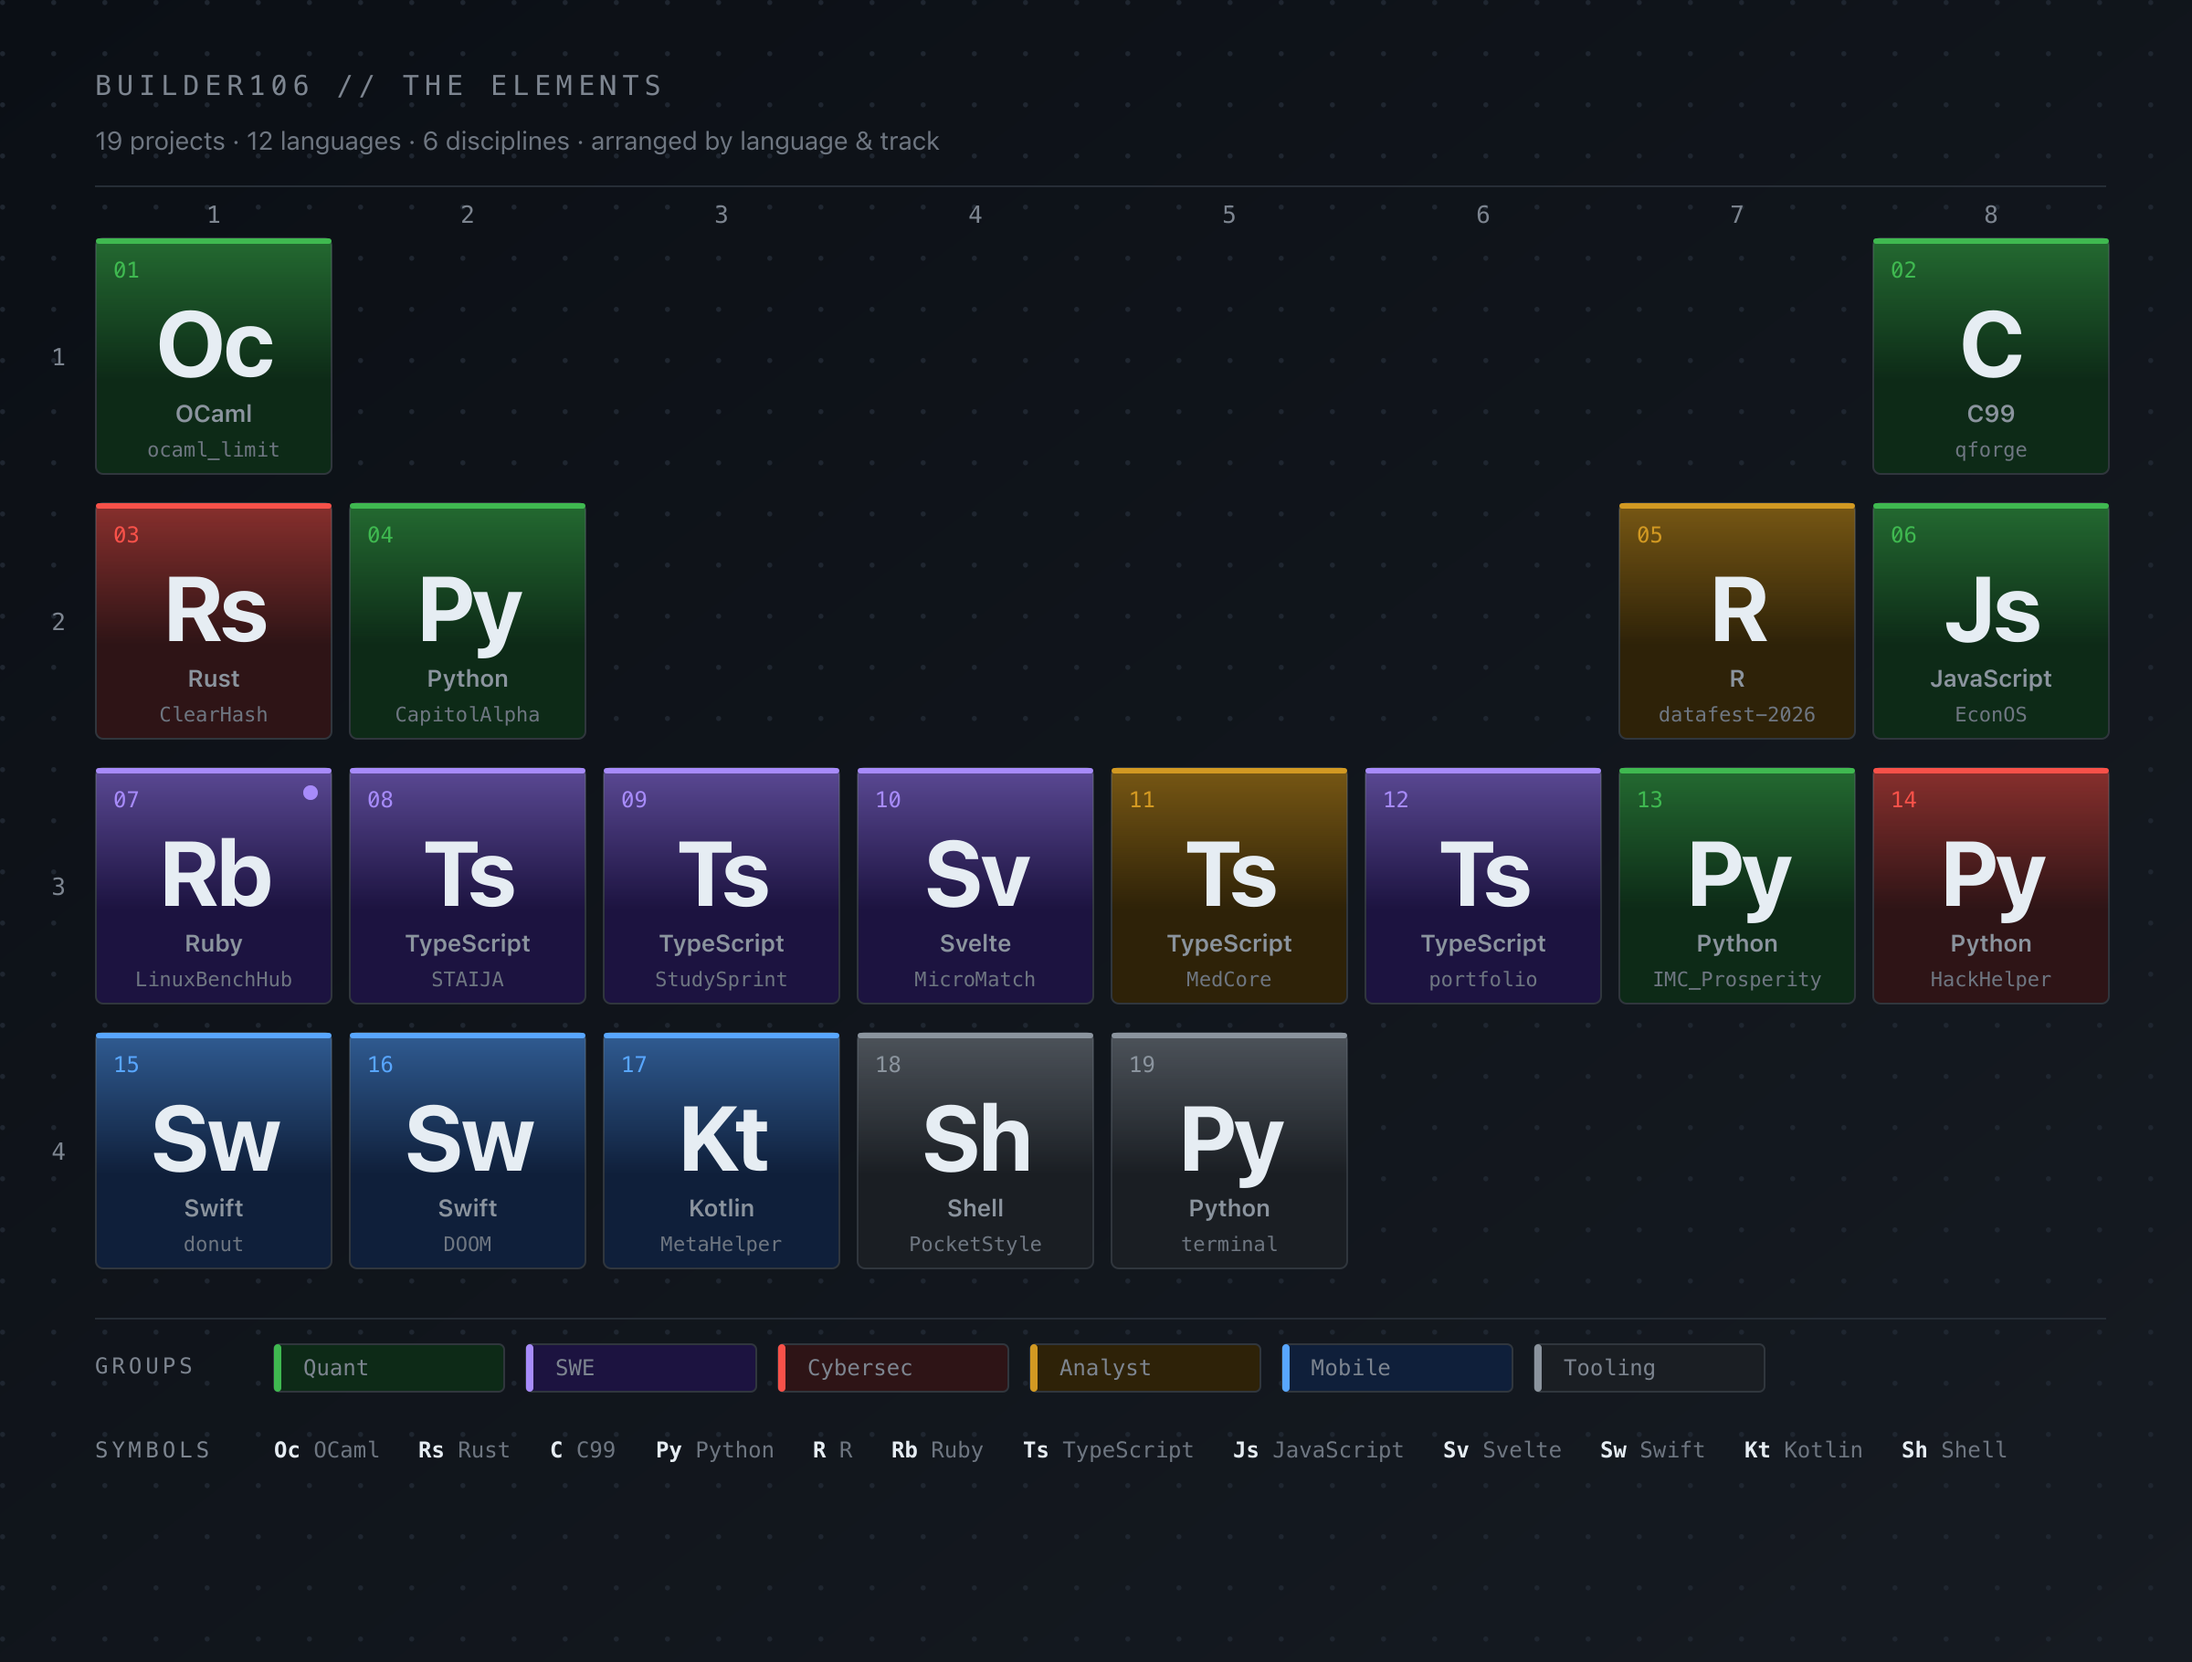
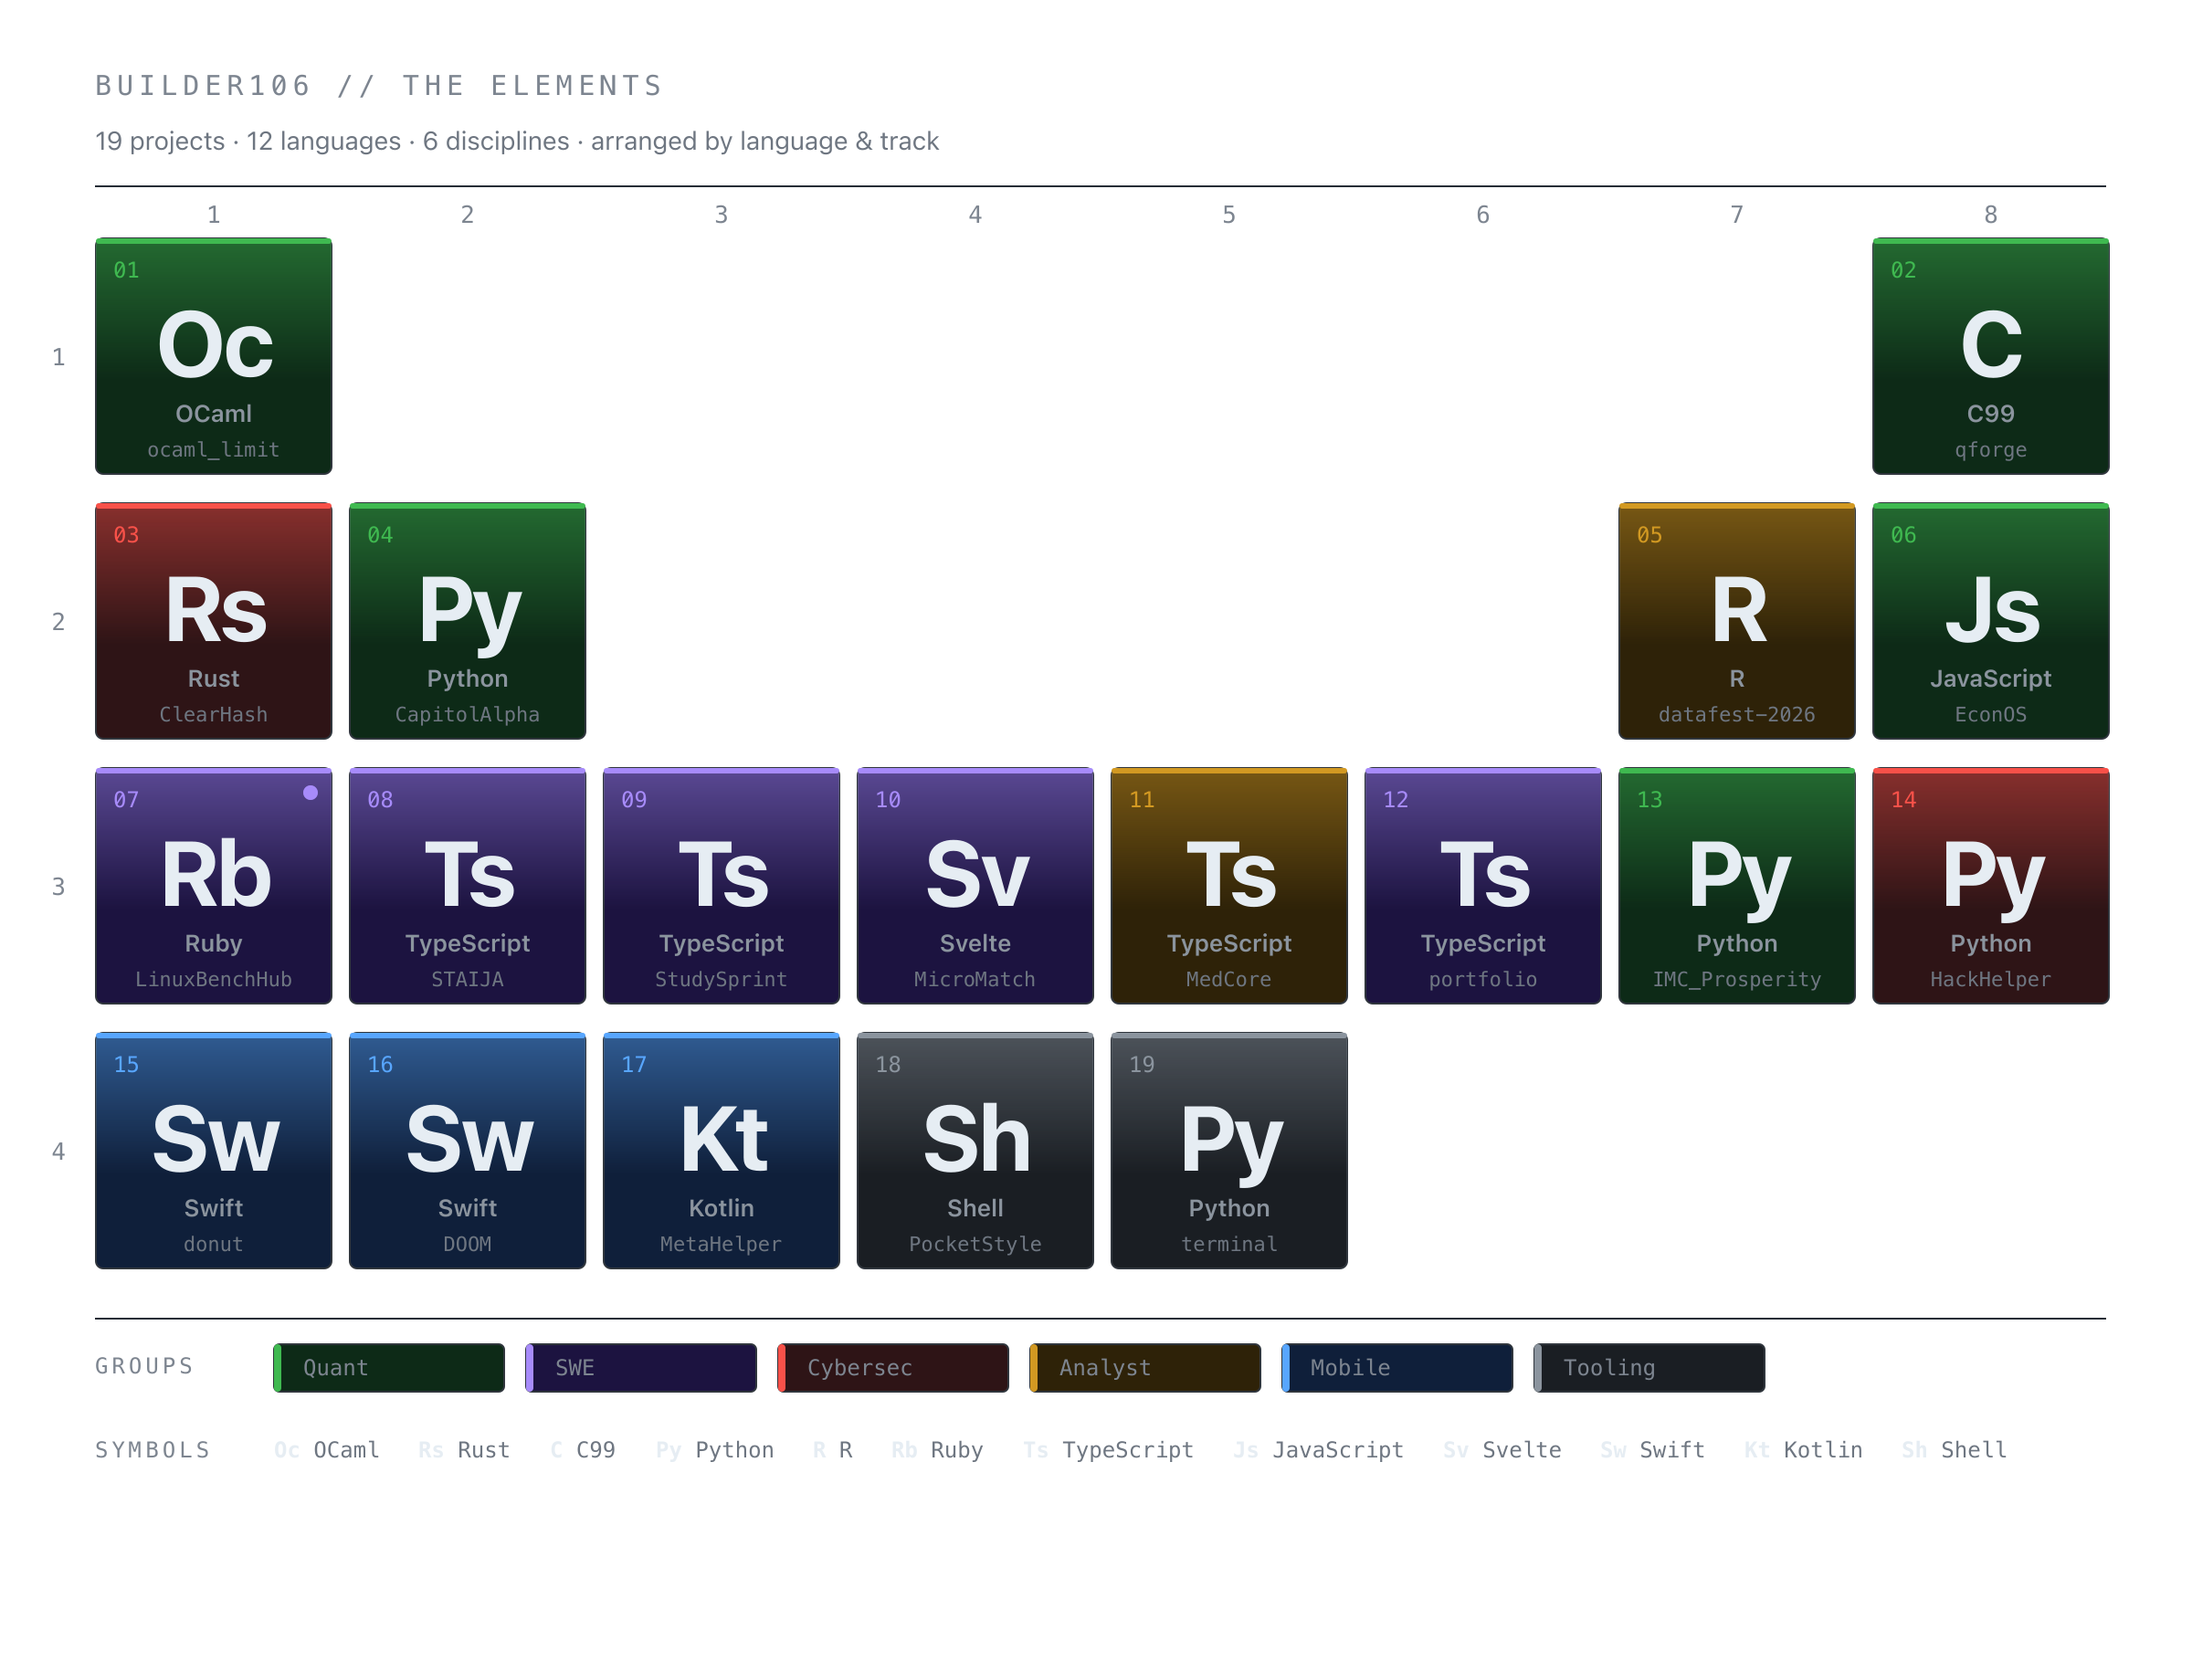
Transparent SVG bg and add 12s gradient breath per cell

diff --git a/assets/gen_cells.py b/assets/gen_cells.py
@@ -167,19 +167,13 @@ def unified_svg(theme):
 
     out = [f'<svg xmlns="http://www.w3.org/2000/svg" width="{W}" height="{H}" viewBox="0 0 {W} {H}" role="img" aria-label="Periodic table of self — 19 projects across 12 languages and 6 disciplines">']
 
-    # Defs: bg gradient, dots, per-discipline cell gradients
+    # Defs: per-discipline cell gradients only (no canvas bg — blends into page)
     out.append('  <defs>')
-    out.append(f'    <linearGradient id="canvasBg" x1="0" y1="0" x2="1" y2="1"><stop offset="0%" stop-color="{bg_start}"/><stop offset="100%" stop-color="{bg_end}"/></linearGradient>')
-    out.append(f'    <pattern id="dots" x="0" y="0" width="28" height="28" patternUnits="userSpaceOnUse"><circle cx="1.4" cy="1.4" r="1.4" fill="{dots_fill}"/></pattern>')
     for code, (_, da, la, _, _) in DISC.items():
         accent = da if is_dark else la
         tint_opacity = 0.45 if is_dark else 0.35
         out.append(f'    <linearGradient id="grad-{code}" x1="0" y1="0" x2="0" y2="1"><stop offset="0%" stop-color="{accent}" stop-opacity="{tint_opacity}"/><stop offset="60%" stop-color="{accent}" stop-opacity="0"/></linearGradient>')
     out.append('  </defs>')
-
-    # Canvas
-    out.append(f'  <rect width="{W}" height="{H}" fill="url(#canvasBg)"/>')
-    out.append(f'  <rect width="{W}" height="{H}" fill="url(#dots)"/>')
 
     # Header
     out.append(f'  <text x="52" y="52" font-family="ui-monospace, SFMono-Regular, Menlo, monospace" font-size="15" fill="{muted}" letter-spacing="3">BUILDER106  //  THE ELEMENTS</text>')
@@ -204,13 +198,16 @@ def unified_svg(theme):
         y = MARGIN_TOP + p * ROW_STRIDE
         reveal_delay = (num - 1) * 0.06
         pulse_offset = -((num * 0.21) % 4)
+        breath_offset = -((num * 0.53) % 12)
         is_now = project == NOW_PROJECT
 
         out.append(f'  <g opacity="1" transform="translate({x}, {y})">')
         out.append(f'    <set attributeName="opacity" to="0" begin="0s"/>')
         out.append(f'    <animate attributeName="opacity" from="0" to="1" begin="{reveal_delay:.2f}s" dur="0.55s" fill="freeze"/>')
         out.append(f'    <rect x="0.5" y="0.5" width="129" height="129" rx="4" fill="{cardbg}" stroke="{border}" stroke-width="1"/>')
-        out.append(f'    <rect x="0.5" y="0.5" width="129" height="129" rx="4" fill="url(#grad-{disc})"/>')
+        out.append(f'    <rect x="0.5" y="0.5" width="129" height="129" rx="4" fill="url(#grad-{disc})">')
+        out.append(f'      <animate attributeName="opacity" values="1;0.5;1" dur="12s" begin="{breath_offset:.2f}s" repeatCount="indefinite"/>')
+        out.append(f'    </rect>')
         out.append(f'    <rect x="0.5" y="0.5" width="129" height="3" rx="1.5" fill="{accent}"><animate attributeName="opacity" values="1;0.45;1" dur="4s" begin="{pulse_offset:.2f}s" repeatCount="indefinite"/></rect>')
         out.append(f'    <text x="10" y="22" font-family="ui-monospace, SFMono-Regular, Menlo, monospace" font-size="12" font-weight="500" fill="{accent}">{num:02d}</text>')
         if is_now:
